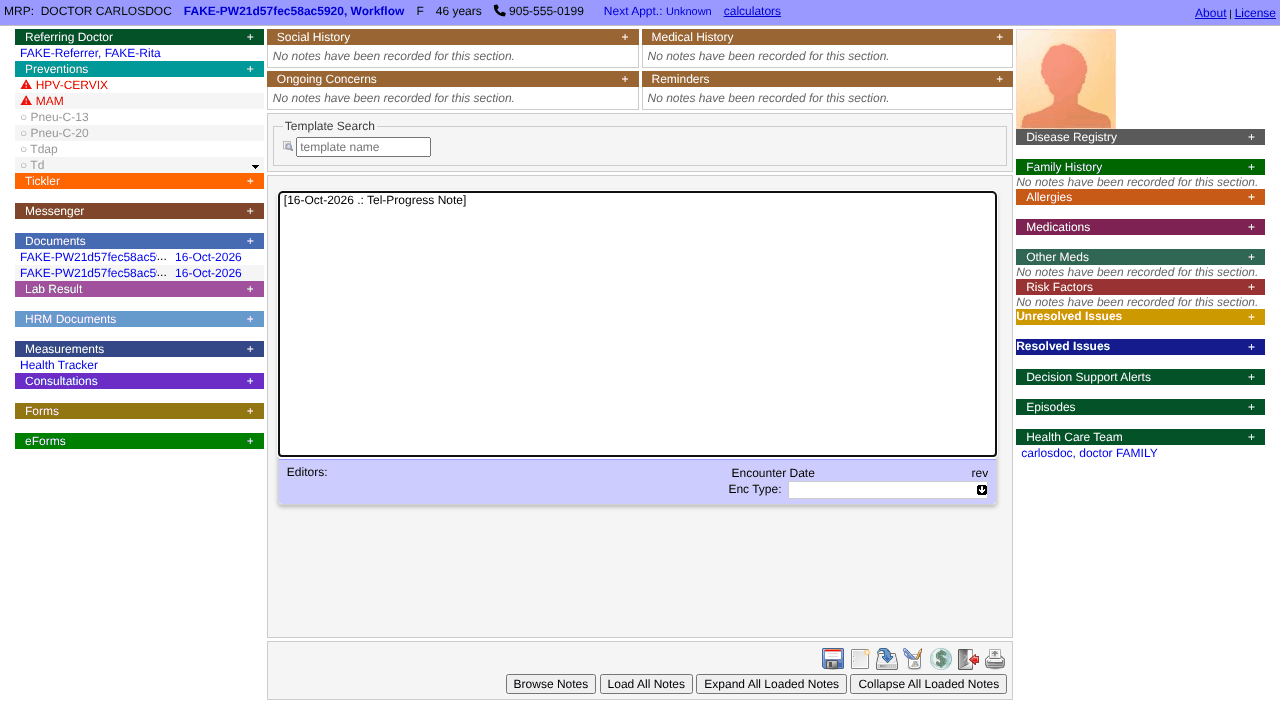
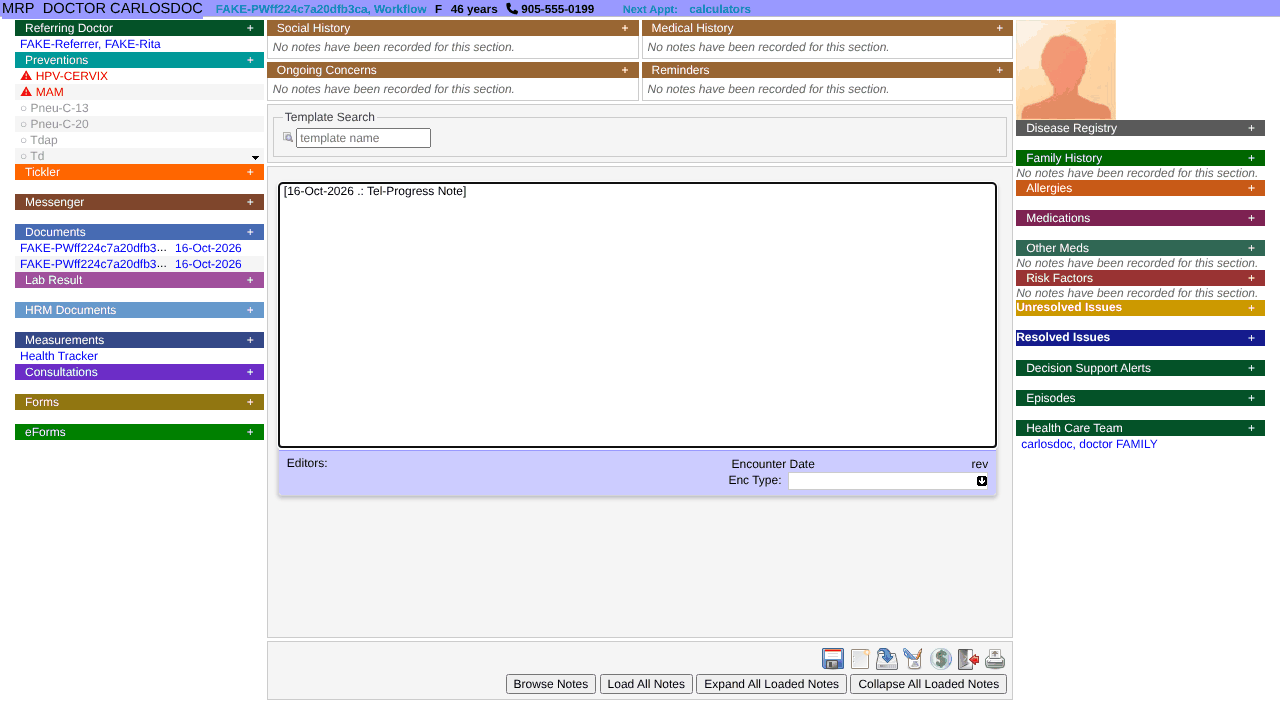
fix(echart): match OSCAR 19's chart top: window title and header styling
The alpha tester's chart top did not look like OSCAR 19:

- The chart window title is OSCAR 19's again, "E - LAST, FIRST SEX AGE"
  (oscar:nameage, new key encounter.Index.windowTitle), instead of a bare
  "Encounter"; the duplicate <title> is gone.
- The header bar takes OSCAR 19's default styling (encounterStyles.css):
  "MRP  DOCTOR NAME" in the 11pt plain font with the MRP-coloured
  underline and no colon, the patient's details bold at 80%, OSCAR's
  "Next Appt: <date>" (blank when nothing is booked), and #0088CC links
  without underline. A bar-scoped font-size inherit stops the page-wide
  ":root * { font-size: 12px }" from flattening those sizes.
- The labels use OSCAR 19's own keys (encounter.Index.msgMRP,
  encounter.Header.nextAppt, encounter.Header.nextApptMsg).
- The HIN shows number and version only, as OSCAR 19 did (hcType dropped
  from the view model).
- The Help/About links are removed; the calculators link stays.

Tests: JSP contract test for the window title, OSCAR labels and absent
About/License links; assembler link colour; i18n check labels; the
eChart browser check asserts the window title. Docs and screenshots
updated, with an OSCAR 19 vs CARLOS comparison image.

Claude-Session: https://claude.ai/code/session_014BbsKagGKuC9e9uVzXp5Sg

Changed region(s): [[0.0, 0.0, 1.0, 0.7028]]

diff --git a/src/main/webapp/css/encounterStyles.css b/src/main/webapp/css/encounterStyles.css
@@ -165,56 +165,58 @@ body.encounter-layout div#header {
     padding: 0;
 }
 
+/* OSCAR 19's eChart bar, at the sizes OSCAR 19's encounterStyles.css and casemgmt.css gave it:
+   the MRP in the table font (11pt, normal weight), the patient's details bold at 80% of that
+   (span.Header), "Next Appt" a bold 11px link, and links #0088CC without underline (white on a
+   dark provider colour; see EchartHeaderViewModelAssembler). */
 #header-top-row.echart-header-bar {
     display: flex;
     width: 100%;
-    justify-content: space-between;
+    box-sizing: border-box;
     align-items: center;
-    gap: 8px;
-    padding: 2px 4px;
-    font-size: 12px;
-    line-height: 1.5;
+    padding: 0 2px 0 2px;
+    font-size: 11pt;
+    line-height: normal;
+}
+
+/* The page-wide ":root * { font-size: 12px }" would pin every item to 12px; inside the bar each
+   element inherits instead, so OSCAR 19's 11pt / 80% / 11px sizes below cascade as they did. */
+#header-top-row.echart-header-bar * {
+    font-size: inherit;
 }
 
 #header-top-row.echart-header-bar #left-column {
-    display: flex;
-    flex-wrap: wrap;
-    align-items: baseline;
-    column-gap: 12px;
-    row-gap: 0;
     min-width: 0;
 }
 
-#header-top-row.echart-header-bar #right-column {
-    white-space: nowrap;
-    font-size: 10px;
-}
-
 #header-top-row.echart-header-bar a {
-    color: var(--echart-header-link, #0000CC);
-}
-
-#header-top-row.echart-header-bar .echart-header-item {
-    white-space: nowrap;
+    color: var(--echart-header-link, #0088CC);
+    text-decoration: none;
 }
 
 #header-top-row.echart-header-bar .echart-header-mrp {
     border-bottom: medium solid transparent;
+    margin-right: 0.6em;
+    white-space: nowrap;
 }
 
 #header-top-row.echart-header-bar .echart-header-mrp-name {
     text-transform: uppercase;
 }
 
-#header-top-row.echart-header-bar .echart-header-name {
+#header-top-row.echart-header-bar .echart-header-details {
+    font-size: 80%;
     font-weight: bold;
-    text-decoration: none;
+}
+
+#header-top-row.echart-header-bar .echart-header-item {
+    margin-right: 0.45em;
+    white-space: nowrap;
 }
 
 #header-top-row.echart-header-bar .echart-header-next-appt {
     font-size: 11px;
-    text-decoration: none;
-    margin-left: 8px;
+    margin-left: 20px;
 }
 
 #header-top-row.echart-header-bar button.copyable {
@@ -234,9 +236,13 @@ body.encounter-layout div#header {
     text-decoration: underline;
 }
 
+/* Captions take their item's weight and size (OSCAR 19's "HIN:" and "Next Appt:" are bold);
+   !important because a global .label rule would otherwise restyle them. */
 #header-top-row.echart-header-bar .label {
     margin: 0;
-    font-weight: normal !important;
+    padding: 0;
+    font-size: inherit !important;
+    font-weight: inherit !important;
     text-decoration: none;
     display: inline;
     color: inherit;
@@ -244,6 +250,11 @@ body.encounter-layout div#header {
 
 #header-top-row.echart-header-bar .label::after {
     content: ':\00a0';
+}
+
+/* OSCAR 19 wrote "MRP" without a colon. */
+#header-top-row.echart-header-bar .echart-header-mrp-label::after {
+    content: none;
 }
 
 .noteRounded {

diff --git a/scripts/encounter-header-i18n-playwright-checks.js b/scripts/encounter-header-i18n-playwright-checks.js
@@ -38,7 +38,7 @@
  * single-language check ever written: one language is always right.
  *
  * WHAT IT ASSERTS, per language:
- *   1. The identity labels of the OSCAR 19 style header bar (MRP, HIN, Next Appt.)
+ *   1. The identity labels of the OSCAR 19 style header bar (MRP, HIN, Next Appt)
  *      are in the browser's language. The bar's other items (sex, date of birth or
  *      age, phone, email) are unlabelled values, as in OSCAR 19, and which of them
  *      appear is the provider's eChart preference
@@ -93,11 +93,11 @@ const { openMasterRecord } = require('./master-record-tabs-playwright-checks');
  * completely and the one the report came from.
  */
 const ENGLISH_LABELS = Object.freeze({
-  'patient-hin': 'HIN', 'patient-next-appointment': 'Next Appt.', 'patient-mrp': 'MRP',
+  'patient-hin': 'HIN', 'patient-next-appointment': 'Next Appt', 'patient-mrp': 'MRP',
 });
 const FRENCH_LABELS = Object.freeze({
   ...ENGLISH_LABELS,
-  'patient-next-appointment': 'Prochain rendez-vous',
+  'patient-next-appointment': 'Prochain rdv',
 });
 
 const LANGUAGES = [
@@ -106,7 +106,7 @@ const LANGUAGES = [
     acceptLanguage: 'en-CA,en;q=0.9',
     // language subtag the server must state it negotiated (html lang / #header-top-row lang)
     expectedLanguage: 'en',
-    // demographiceditdemographic.formMRP / patient.context.hin / global.nextAppointment
+    // encounter.Index.msgMRP / patient.context.hin / encounter.Header.nextAppt (OSCAR 19's keys)
     javaLabels: ENGLISH_LABELS,
     // encounter.Index.calculators  (JSP-rendered, same header)
     calculators: 'calculators',

diff --git a/scripts/echart-display-preferences-playwright-checks.js b/scripts/echart-display-preferences-playwright-checks.js
@@ -166,6 +166,12 @@ async function workflow(s) {
     const bar = await page.locator('#header-top-row').evaluate((el) => getComputedStyle(el).backgroundColor);
     h.assert(bar && bar !== 'rgba(0, 0, 0, 0)', 'The header bar has no provider colour');
     h.assert((await text(page, '#patient-full-name')).includes(s.marker), 'The header does not name the patient');
+    // OSCAR 19's window title: "E - LAST, FIRST SEX AGE", the line above the bar in the popup.
+    const title = await page.title();
+    h.assert(title.startsWith('E - ') && title.includes(s.marker) && /\bF\b/.test(title) && /\d/.test(title),
+      `The chart window title does not carry the patient's name, sex and age as OSCAR 19's did: ${JSON.stringify(title.replace(s.marker, '<patient>'))}`);
+    h.assert(await page.locator('#header-top-row a[href*="ViewAbout"], #header-top-row a[href*="ViewLicense"]').count() === 0,
+      'The header bar still carries About/License links');
     h.assert(await text(page, '#patient-dob') === PATIENT.dob, 'The header does not show the date of birth as yyyy-mm-dd');
     h.assert(await page.locator('#patient-age').count() === 0, 'The header shows the age although the date of birth is on');
     h.assert(/\d/.test(await page.locator('#patient-dob').getAttribute('title')), 'The date of birth does not offer the age as its tooltip');

diff --git a/src/test/java/io/github/carlos_emr/carlos/encounter/display/EchartHeaderViewModelAssemblerUnitTest.java b/src/test/java/io/github/carlos_emr/carlos/encounter/display/EchartHeaderViewModelAssemblerUnitTest.java
@@ -83,7 +83,7 @@ class EchartHeaderViewModelAssemblerUnitTest {
         }
 
         @Test
-        @DisplayName("should show the name, sex, HIN with version and province, email, and next appointment")
+        @DisplayName("should show the name, sex, HIN with version, email, and next appointment")
         void shouldShowIdentityItems_withDefaultSettings() {
             EchartHeaderViewModel header = assembler.assemble(VIEWER, patient(), EchartDisplayPreferences.defaults(), Locale.CANADA);
 
@@ -91,7 +91,6 @@ class EchartHeaderViewModelAssemblerUnitTest {
             assertThat(header.sex()).isEqualTo("F");
             assertThat(header.hin()).isEqualTo("9876543225");
             assertThat(header.hinVersion()).isEqualTo("AB");
-            assertThat(header.hcType()).isEqualTo("ON");
             assertThat(header.email()).isEqualTo("jane@example.test");
             assertThat(header.emailConsented()).isFalse();
             assertThat(header.nextAppointment()).isEqualTo("2026-11-02");
@@ -131,13 +130,12 @@ class EchartHeaderViewModelAssemblerUnitTest {
         }
 
         @Test
-        @DisplayName("should hide the HIN and its version and province")
+        @DisplayName("should hide the HIN and its version")
         void shouldHideHin_whenHinSettingOff() {
             EchartHeaderViewModel header = assembler.assemble(VIEWER, patient(), off("echart_show_HIN"), Locale.CANADA);
 
             assertThat(header.hin()).isEmpty();
             assertThat(header.hinVersion()).isEmpty();
-            assertThat(header.hcType()).isEmpty();
         }
 
         @Test
@@ -190,7 +188,7 @@ class EchartHeaderViewModelAssemblerUnitTest {
     class Colours {
 
         @Test
-        @DisplayName("should use the viewer's provider colour with readable black text and blue links")
+        @DisplayName("should use the viewer's provider colour with readable black text and OSCAR 19's blue links")
         void shouldUseViewerColour_withReadableText() {
             when(userPropertyDao.getProviderPropertiesByNames(eq(VIEWER), any())).thenReturn(Map.of("ProviderColour", "#FFCC99"));
 
@@ -198,7 +196,7 @@ class EchartHeaderViewModelAssemblerUnitTest {
 
             assertThat(header.headerBackground()).isEqualTo("#FFCC99");
             assertThat(header.headerText()).isEqualTo("#000000");
-            assertThat(header.headerLink()).isEqualTo("#0000CC");
+            assertThat(header.headerLink()).isEqualTo("#0088CC");
         }
 
         @Test

diff --git a/src/test/java/io/github/carlos_emr/carlos/encounter/display/EchartDisplayJspContractUnitTest.java b/src/test/java/io/github/carlos_emr/carlos/encounter/display/EchartDisplayJspContractUnitTest.java
@@ -53,6 +53,7 @@ class EchartDisplayJspContractUnitTest {
     private static final Path WEBAPP = Path.of("src", "main", "webapp");
     private static final Path PREFERENCES_JSP = WEBAPP.resolve("WEB-INF/jsp/provider/providerpreference.jsp");
     private static final Path HEADER_JSP = WEBAPP.resolve("WEB-INF/jsp/casemgmt/newEncounterHeader.jsp");
+    private static final Path LAYOUT_JSP = WEBAPP.resolve("WEB-INF/jsp/casemgmt/newEncounterLayout.jsp");
     private static final Path CHART_NOTES_JSP = WEBAPP.resolve("WEB-INF/jsp/casemgmt/ChartNotes.jsp");
     private static final Path CASE_VIEW_JSP = WEBAPP.resolve("WEB-INF/jsp/casemgmt/newCaseManagementView.jsp");
     private static final Path CASE_VIEW_JS_JSP = WEBAPP.resolve("js/newCaseManagementView.js.jsp");
@@ -175,6 +176,29 @@ class EchartDisplayJspContractUnitTest {
                 .contains("numDisplayed = displayFolders(dao, jscode, displayThreshold, reloadURL.toString(), request, out);")
                 .contains("aria-expanded=")
                 .contains("SafeEncode.forHtmlContent(name)");
+    }
+
+    @Test
+    @DisplayName("should title the chart window and label the bar as OSCAR 19 did")
+    void shouldMatchOscar19_inWindowTitleAndBarLabels() throws IOException {
+        String layout = source(LAYOUT_JSP);
+        String header = source(HEADER_JSP);
+
+        assertThat(layout)
+                .contains("<title><fmt:message key=\"encounter.Index.windowTitle\"/> - <oscar:nameage demographicNo=\"${demographicNo}\"/></title>");
+        assertThat(Pattern.compile("<title>").matcher(layout).results().count()).as("title elements").isEqualTo(1);
+        assertThat(header)
+                .contains("<fmt:message key=\"encounter.Index.msgMRP\"/>")
+                .contains("key=\"encounter.Header.nextAppt\"")
+                .contains("id=\"chartCalculatorsLink\"")
+                .doesNotContain("/encounter/ViewAbout")
+                .doesNotContain("/encounter/ViewLicense")
+                .doesNotContain("global.help");
+        for (String locale : LOCALES) {
+            assertThat(bundle(locale).getProperty("encounter.Index.windowTitle"))
+                    .as("encounter.Index.windowTitle in oscarResources_%s", locale)
+                    .isEqualTo("E");
+        }
     }
 
     private static String source(Path path) throws IOException {

diff --git a/src/main/java/io/github/carlos_emr/carlos/encounter/display/EchartHeaderViewModel.java b/src/main/java/io/github/carlos_emr/carlos/encounter/display/EchartHeaderViewModel.java
@@ -35,7 +35,7 @@ import java.util.List;
  *
  * @param headerBackground the viewer's provider colour ({@code #RRGGBB}), the bar's background
  * @param headerText       black or white, whichever reads on {@code headerBackground}
- * @param headerLink       link colour that reads on {@code headerBackground}
+ * @param headerLink       link colour: OSCAR 19's {@code #0088CC}, or white on a dark provider colour
  * @param mrpName          the most responsible provider's name, {@code ""} when none is assigned
  * @param mrpUnderline     the MRP's provider colour ({@code #RRGGBB}), underlining the MRP name
  * @param patientName      "LAST, FIRST (alias)"
@@ -48,7 +48,6 @@ import java.util.List;
  * @param age              localized age, e.g. "45 years"
  * @param hin              health insurance number, {@code ""} when hidden or not on file
  * @param hinVersion       its version code, {@code ""} when none
- * @param hcType           issuing province, {@code ""} when none
  * @param phones           the phone numbers to show, in display order; may be empty
  * @param email            email address, {@code ""} when hidden or not on file
  * @param emailConsented   whether the patient consented to email for care (the address is then a mailto link)
@@ -70,7 +69,6 @@ public record EchartHeaderViewModel(
         String age,
         String hin,
         String hinVersion,
-        String hcType,
         List<Phone> phones,
         String email,
         boolean emailConsented,

diff --git a/src/main/java/io/github/carlos_emr/carlos/encounter/display/EchartHeaderViewModelAssembler.java b/src/main/java/io/github/carlos_emr/carlos/encounter/display/EchartHeaderViewModelAssembler.java
@@ -72,7 +72,8 @@ public class EchartHeaderViewModelAssembler {
     private static final String PREFERRED_MARK = "*";
     private static final String DARK_TEXT = "#000000";
     private static final String LIGHT_TEXT = "#FFFFFF";
-    private static final String DARK_LINK = "#0000CC";
+    /** OSCAR 19's eChart link colour (encounterStyles.css), readable on its light provider colours. */
+    static final String OSCAR_LINK = "#0088CC";
 
     private final UserPropertyDAO userPropertyDao;
 
@@ -105,7 +106,7 @@ public class EchartHeaderViewModelAssembler {
         return new EchartHeaderViewModel(
                 background,
                 text,
-                LIGHT_TEXT.equals(text) ? LIGHT_TEXT : DARK_LINK,
+                LIGHT_TEXT.equals(text) ? LIGHT_TEXT : OSCAR_LINK,
                 mrpName,
                 mrpUnderline,
                 StringUtils.trimToEmpty(demographic.getFormattedName()),
@@ -117,7 +118,6 @@ public class EchartHeaderViewModelAssembler {
                 StringUtils.trimToEmpty(demographic.getAgeAsOf(new Date(), locale)),
                 hin,
                 hin.isEmpty() ? "" : StringUtils.trimToEmpty(demographic.getVer()),
-                hin.isEmpty() ? "" : StringUtils.trimToEmpty(demographic.getHcType()),
                 selectPhones(demographic.getCellPhone(), demographic.getPhone(), demographic.getPhone2(),
                         preferences.showCell()),
                 email,

diff --git a/docs/echart-display-preferences.md b/docs/echart-display-preferences.md
@@ -11,23 +11,34 @@ were clinic-wide (Administration > eChart > eChart Display Settings); in CARLOS 
 | File Documents in Folders by Document Type | Yes | The left-column Documents panel lists one collapsed folder per document type ("consult (2)", "lab (1)", ...) instead of a list by date. Documents without a type go in "Other". |
 | Display Date of Birth (yyyy-mm-dd) | Yes | The header bar shows the date of birth with the age as its tooltip; No shows the age with the date of birth as its tooltip. |
 | Display Cell Phone Number if Available | Yes | The header bar shows the cell number (home number in the tooltip); No, or no cell on file, shows the home number. A number the patient marked preferred (trailing `*`) is always shown instead. |
-| Display Health Insurance Number (HIN) | Yes | The HIN, version code and province in the header bar. |
+| Display Health Insurance Number (HIN) | Yes | The HIN and version code in the header bar. |
 | Display Patient Email Address if Available | Yes | The email address in the header bar; a mailto link when the patient consented to email for care. |
 | Display Family Doctor | Yes | A Family Doctor panel at the top of the left column: the patient's "Family Doctor" professional contact (Health Care Team), else the legacy family-doctor field. |
 | Display Referring Doctor | No | A Referring Doctor panel at the top of the left column: the master record's Referral Doctor, else a "Referring Doctor" professional contact. |
 | Display OCEAN UI | No | The Ocean toolbar placeholder. Ocean must also be enabled for the clinic: `cme_js=ocean` in `carlos.properties`, and Administration > eChart > eChart Display Settings left on. |
 
-## The header bar
+## The chart window title and the header bar
 
-One compact line in the viewer's provider colour (Preferences > Set Provider Colour; light blue
-when never chosen): MRP (underlined in the MRP's colour), the patient's name (opens the Master
-Record), sex, date of birth or age, HIN, phone, email, next appointment (opens the appointment
-history), the clinical calculators, configured chart links, and About | License on the right. Date
-of birth or age, HIN, phone and email are buttons that copy the value to the clipboard.
+As in OSCAR 19, the chart window's title bar names the patient: `E - LAST, FIRST SEX AGE`
+(for example `E - FAKE-Jacky, FAKE-Jones M 41 years`), so several open charts can be told apart in
+the taskbar.
+
+The header bar is OSCAR 19's single line in the viewer's provider colour (Preferences > Set Provider
+Colour; light blue when never chosen), styled as OSCAR 19 styled it: "MRP  DOCTOR NAME" in the larger
+plain font, underlined in the MRP's own colour, then the patient's details in smaller bold text: the
+name (a `#0088CC` link that opens the Master Record), sex, date of birth or age, HIN, phone, email,
+and "Next Appt: <date>" (blank when nothing is booked; opens the appointment history). CARLOS keeps
+its clinical calculators link and any configured chart links after them; there are no Help or About
+links. Date of birth or age, HIN, phone and email are buttons that copy the value to the clipboard.
 
 ## Screenshots
 
 Synthetic demo (`FAKE-`) patients only.
+
+OSCAR 19 (its own `newEncounterHeader.jsp` markup and stylesheets) and CARLOS, same patient, each
+under its window title:
+
+![OSCAR 19 and CARLOS compared](images/echart-display-preferences/11-oscar19-comparison.png)
 
 Header bar before (CARLOS's earlier two-row identity header) and after (OSCAR 19 format, default settings):
 
@@ -51,7 +62,9 @@ date):
   stored as `property` rows (`provider_no`, `name`, `"true"`/`"false"`); a provider with no row gets
   the default. Saved by `EchartDisplayPreferencePersister` from Save All
   (`ProviderPropertyAction`); read by `EchartDisplayPreferenceResolver`.
-- Header bar: `casemgmt/newEncounterHeader.jsp`, built from `EchartHeaderViewModelAssembler`.
+- Header bar: `casemgmt/newEncounterHeader.jsp`, built from `EchartHeaderViewModelAssembler`, styled in
+  `css/encounterStyles.css` (`#header-top-row.echart-header-bar`). Window title:
+  `casemgmt/newEncounterLayout.jsp` (`encounter.Index.windowTitle` + `oscar:nameage`).
 - Left-column panels: `encounter/displayFamilyDoctor`, `encounter/displayReferringDoctor`
   (`EctDisplayPatientDoctorAction`); Documents folders: `EctDisplayDocs2Action` +
   `LeftNavBarDisplay.jsp` (`displayFolders`).
